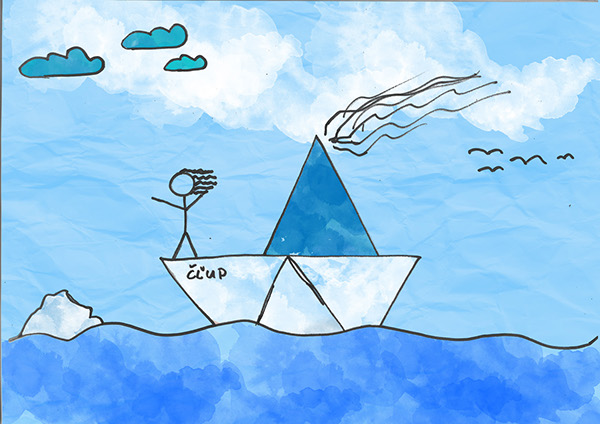
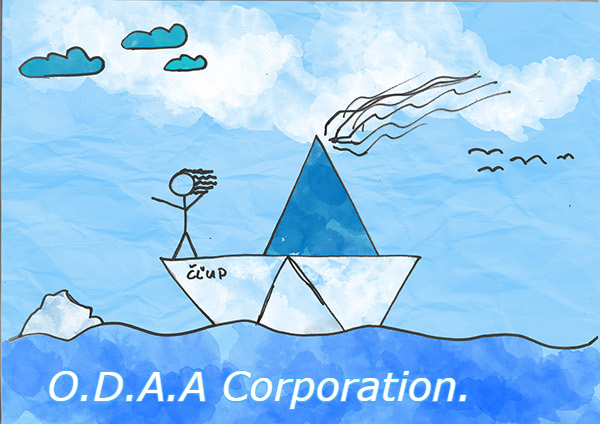
need to set constants, images

Changed region(s): [[0.06, 0.8585, 0.78, 0.9811], [0.39, 0.8585, 0.42, 0.8892]]

diff --git a/src/Statistic.java b/src/Statistic.java
@@ -1,3 +1,6 @@
+import java.io.File;
+import java.io.FileNotFoundException;
+import java.io.PrintWriter;
 import java.util.ArrayList;
 
 public class Statistic {
@@ -5,25 +8,126 @@ public class Statistic {
     private float gender;
     private float[] byAge;
     private float[] sibSPAndParch;
-    private float[] byPrice;
-    private float byEmbarked;
+    private float Embakred;
+    private static int[] ages = {0,10,11,20,21,30,31,40,41,50,51,Integer.MAX_VALUE};
+    private static int[] price = {0,10,11,30,31,Integer.MAX_VALUE};
+    private static int txtNumbers = 0;
 
-    public Statistic(float pClass, float gender, float[] byAge, float[] sibSPAndParch, float[] byPrice, float byEmbarked) {
-        this.pClass = pClass;
-        this.gender = gender;
-        this.byAge = byAge;
-        this.sibSPAndParch = sibSPAndParch;
-        this.byPrice = byPrice;
-        this.byEmbarked = byEmbarked;
+    public Statistic(ArrayList<Passenger> passengers) throws FileNotFoundException {
+        String toWrite = ( byEmbarked(passengers)+"\n"+byAge(passengers)+"\n" +
+                byGender(passengers)+"\n"+bySibParch(passengers)+"\n"+byPrice(passengers));
+        txtNumbers++;
+        String fileName = String.valueOf(txtNumbers);
+        File file = new File(fileName + ".txt");
+
+        PrintWriter printWriter = new PrintWriter(file);
+        printWriter.println(toWrite);
+        printWriter.close();
+    }
+
+    //by payment less than 10, 11-30 and more than 30
+    public String byEmbarked(ArrayList<Passenger> passengers){
+        float alive = 0, total = 0;
+        String conclusion = "Total survived from embarked: ";
+        for(int i = 1; i< Constants.EMBARKED.length; i++){
+            for(Passenger p : passengers){
+                if(p.validateEmbarked(Constants.EMBARKED[i])) {
+                    total++;
+                    if(p.survived()){
+                        alive++;
+                    }
+                }
+            }
+            conclusion+=Constants.EMBARKED[i]+" ---> "+String.format("%.2f", (alive/total)*100)+"%. ";
+        }
+        return conclusion;
+    }
+    public String byPrice(ArrayList<Passenger> passengers){
+        float alive = 0, total = 0;
+        String conclusion = "Total survived per price: ";
+        for(int i = 0; i< price.length-1; i+=2){
+            for(Passenger p : passengers){
+                if(p.costInRange(price[i], price[i+1])) {
+                    total++;
+                    if(p.survived()){
+                        alive++;
+                    }
+                }
+            }
+            conclusion+=price[i]+"-"+ price[i+1]+" ---> "+String.format("%.2f", (alive/total)*100)+"%. ";
+            if(price[i+1] == Integer.MAX_VALUE){
+                conclusion = conclusion.replaceAll("-2147483647", "+");
+            }
+        }
+        return conclusion;
+    }
+
+    public String bySibParch(ArrayList<Passenger> passengers){
+    float hadFamilyTotal= 0,hadFamilyAlive = 0,noFamilyTotal = 0,noFamilyAlive = 0;
+        for(Passenger p :passengers){
+            if(p.hadFamily()){
+                hadFamilyTotal++;
+                if(p.survived()){
+                    hadFamilyAlive++;
+                }
+            }else{
+                noFamilyTotal++;
+                if(p.survived()){
+                    noFamilyAlive++;
+                }
+            }
+        }
+        String formattedDotFamily = String.format("%.2f",(hadFamilyAlive/hadFamilyTotal)*100);
+        String formattedDotNoFamily = String.format("%.2f",(noFamilyAlive/noFamilyTotal)*100);
+        return "Total people without family survived "+formattedDotNoFamily+"%.\n"+
+                "Total family with family survived "+formattedDotFamily+"%.";
+    }
+
+    public String byAge(ArrayList<Passenger> passenger){
+        float alive = 0;
+        float total = 0;
+        String calculated = "Survived by age ";
+        for(int i = 0;i<=ages.length-1;i+=2){
+            int minAge = ages[i];
+            int maxAge = ages[i+1];
+            for(Passenger p : passenger){
+                if(p.ageInRange(minAge, maxAge)){
+                    total++;
+                    if(p.survived()){
+                        alive++;
+                    }
+                }
+            }
+            String formattedDot = String.format("%.2f", (alive/total)*100);
+            calculated+= minAge+"-"+maxAge+" ---> "+formattedDot+"%. ";
+            if(maxAge == Integer.MAX_VALUE){
+                calculated = calculated.replaceAll("-2147483647", "+");
+            }
+        }
+        return calculated;
+    }
+    public String byGender(ArrayList<Passenger> passengers){
+        float totalMale = 0,totalFemale = 0,survivedMale = 0,survivedFemale = 0;
+        for(int i = 0;i< passengers.size();i++){
+            if(passengers.get(i).validateGender("male")){
+                totalMale++;
+                if(passengers.get(i).survived()){
+                    survivedMale++;
+                }
+            }else{
+                totalFemale++;
+                if(passengers.get(i).survived()){
+                    survivedFemale++;
+                }
+            }
+        }
+        String formattedDotFemale= String.format("%.2f", (survivedFemale/totalFemale)*100);
+        String formattedDotMale= String.format("%.2f", (survivedMale/totalMale)*100);
+        return "Total male survived "+formattedDotMale+"%, Total female survived "+formattedDotFemale+"%";
     }
 
 
-//
-//    showMessage(Utils.filterFunction(passengers, this.classNumber, this.genderData, this.wentOnDeckData,
-//                            this.passengerNumberMinData, this.passengerNumberMaxData,
-//                passengerNameText.getText(), this.parchAmountData, this.sibSPAmountBoxData, ticketNumberBox.getText(),
-//            this.maxTicketPriceData, this.minTicketPriceData, cabinNumberBox.getText(), firstLine));
-//
+
 
 
 }

diff --git a/src/ManageScreen.java b/src/ManageScreen.java
@@ -10,9 +10,6 @@ public class ManageScreen extends JPanel {
     private JComboBox<String> survivedComboBoxGender;
     private JComboBox<String> survivedComboBoxEmbarked;
     public ArrayList<Passenger> passengers = new ArrayList<Passenger>();
-    public Statistic statisticArray;
-
-    public ArrayList<String> values;
     private String cabinNumberData;
     private String genderData;
 
@@ -32,38 +29,6 @@ public class ManageScreen extends JPanel {
     private Float maxTicketPriceData;
 
     private Image backGround;
-
-//    public String readData(File file) {
-//        String data;
-//        String firstLine;
-//        try {
-//            BufferedReader bufferedReader = new BufferedReader(new FileReader(Constants.PATH_TO_DATA_FILE));
-//            firstLine = bufferedReader.readLine();
-//            while ((data = bufferedReader.readLine()) != null) {
-//                String[] values = data.split(",");
-//                Passenger passenger = null;
-//                if (values.length == 13) {
-//                    passenger = new Passenger(Integer.parseInt(values[0]), Integer.parseInt(values[1]),
-//                            Integer.parseInt(values[2]), (values[3] + ", " + values[4]), values[5],
-//                            values[6], Integer.parseInt(values[7]), Integer.parseInt(values[8]),
-//                            values[9], Float.parseFloat(values[10]), values[11],
-//                            values[12] + " ");
-//                } else if (values.length == 12) {
-//                    passenger = new Passenger(Integer.parseInt(values[0]), Integer.parseInt(values[1]),
-//                            Integer.parseInt(values[2]), (values[3] + ", " + values[4]), values[5],
-//                            values[6], Integer.parseInt(values[7]), Integer.parseInt(values[8]), values[9],
-//                            Float.parseFloat(values[10]), values[11], "");
-//                }
-//                passengers.add(passenger);
-//            }
-//            bufferedReader.close();
-//        } catch (IOException e) {
-//            throw new RuntimeException(e);
-//        }
-//        return firstLine;
-//    }
-
-
     public String readData(File file) {
         String data;
         String firstLine;
@@ -82,7 +47,6 @@ public class ManageScreen extends JPanel {
         }
         return firstLine;
     }
-
 
     public ManageScreen(int x, int y, int width, int height) {
         File file = new File(Constants.PATH_TO_DATA_FILE); //this is the path to the data file
@@ -330,7 +294,7 @@ public class ManageScreen extends JPanel {
             filter.addActionListener(e -> {
 
                 try {
-                    showMessage(Utils.filterFunction(passengers, this.classNumber, this.genderData, this.wentOnDeckData,
+                    showMessage(Utils.filterButton(passengers, this.classNumber, this.genderData, this.wentOnDeckData,
                             this.passengerNumberMinData, this.passengerNumberMaxData,
                             passengerNameText.getText(), this.parchAmountData, this.sibSPAmountBoxData, ticketNumberBox.getText(),
                             this.maxTicketPriceData, this.minTicketPriceData, cabinNumberBox.getText(), firstLine));
@@ -343,7 +307,11 @@ public class ManageScreen extends JPanel {
             statistic.setFont(new Font("Statistic", Font.ROMAN_BASELINE, 20));
             this.add(statistic);
             statistic.addActionListener(e -> {
-
+                try {
+                    Statistic statistic1 = new Statistic(passengers);
+                } catch (FileNotFoundException ex) {
+                    throw new RuntimeException(ex);
+                }
             });
             }
         }

diff --git a/src/Passenger.java b/src/Passenger.java
@@ -12,39 +12,11 @@ public class Passenger {
     private String cabin;
     private String embarked;
 
-//    public Passenger(int id, int survived, int pClass, String name, String gender, String age, int sibSp, int parch,
-//                     String ticket, float fare, String cabin, String embarked) {
-//        this.id = id;
-//        this.survived = survived;
-//        this.pClass = pClass;
-//        if (name != null) {
-//            this.name = getFormattedName(name);
-//        } else {
-//            this.name = "";
-//        }
-//        this.gender = gender;
-//        if (age.equals("")) {
-//            this.age = 0;
-//        } else {
-//            this.age = Float.parseFloat(age);
-//        }
-//        this.sibSp = sibSp;
-//        this.parch = parch;
-//        this.ticket = ticket;
-//        this.fare = fare;
-//        this.cabin = cabin;
-//        if (embarked == null) {
-//            this.embarked = " ";
-//        } else {
-//            this.embarked = embarked;
-//        }
-//    }
-
     public Passenger(String[] values) {
         this.id = checkIntNum(values[0]);
         this.survived = checkIntNum(values[1]);
         this.pClass = checkIntNum(values[2]);
-        this.name = getFormattedName(values[3] +", "+ values[4]);
+        this.name = getFormattedName(values[3] + ", " + values[4]);
         this.gender = values[5];
         this.age = checkFloat(values[6]);
         this.sibSp = checkIntNum(values[7]);
@@ -56,13 +28,6 @@ public class Passenger {
             this.embarked = values[12];
         }
 
-    }
-    public String getGender(){
-        return this.gender;
-    }
-
-    public float getAge() {
-        return age;
     }
 
     private int checkIntNum(String number) {
@@ -79,11 +44,6 @@ public class Passenger {
             check = Float.parseFloat(number);
         }
         return check;
-    }
-
-
-    public String getName() {
-        return name;
     }
 
     public boolean survived() {
@@ -173,10 +133,14 @@ public class Passenger {
     }
 
     public boolean validateEmbarked(String embarked) {
-        if (embarked.equals(Constants.EMBARKED[0])) {
-            return true;
-        } else {
-            return this.embarked.contains(embarked);
+        try {
+            if (embarked.equals(Constants.EMBARKED[0])) {
+                return true;
+            } else {
+                return this.embarked.contains(embarked);
+            }
+        } catch (NullPointerException exception) {
+            return false;
         }
     }
 
@@ -193,6 +157,26 @@ public class Passenger {
             return true;
         } else {
             return this.fare <= fare;
+        }
+    }
+
+    public boolean hadFamily() {
+        return this.parch > 0 || this.sibSp > 0;
+    }
+
+    public boolean ageInRange(int minAge, int maxAge) {
+        if (this.age >= minAge && this.age <= maxAge) {
+            return true;
+        } else {
+            return false;
+        }
+    }
+
+    public boolean costInRange(int minCost, int maxCost) {
+        if (this.fare >= minCost && this.fare <= maxCost) {
+            return true;
+        } else {
+            return false;
         }
     }
 

diff --git a/src/Utils.java b/src/Utils.java
@@ -29,11 +29,11 @@ public class Utils {
     }
 
 
-    public static String filterFunction(ArrayList<Passenger> passengers, int classNumber, String genderData, String wentOnDeck,
-                                        Integer passengerNumberMinData, Integer passengerNumberMaxData, String passengerNameData,
-                                        Integer parchAmountData, Integer sibSPAmountData, String ticketNumberData, Float maxTicketPriceData,
-                                        Float minTicketPriceData, String cabinNumberData, String firstLine) throws IOException {
-        ArrayList<Passenger> filteredPassengers = new ArrayList<Passenger>();
+    public static String filterButton(ArrayList<Passenger> passengers, int classNumber, String genderData, String wentOnDeck,
+                                      Integer passengerNumberMinData, Integer passengerNumberMaxData, String passengerNameData,
+                                      Integer parchAmountData, Integer sibSPAmountData, String ticketNumberData, Float maxTicketPriceData,
+                                      Float minTicketPriceData, String cabinNumberData, String firstLine) throws IOException {
+        ArrayList<Passenger> filteredPassengers;
         filteredPassengers = searchSurvived(passengers, classNumber, genderData, wentOnDeck, passengerNumberMinData,
                 passengerNumberMaxData, passengerNameData, parchAmountData, sibSPAmountData, ticketNumberData, maxTicketPriceData,
                 minTicketPriceData, cabinNumberData, firstLine);
@@ -58,8 +58,6 @@ public class Utils {
         printWriter.close();
         return "Total rows: " + filteredPassengers.size() + " (" + survived + ") survived, " + died + " did not)";
     }
-
-
 
 
 }
